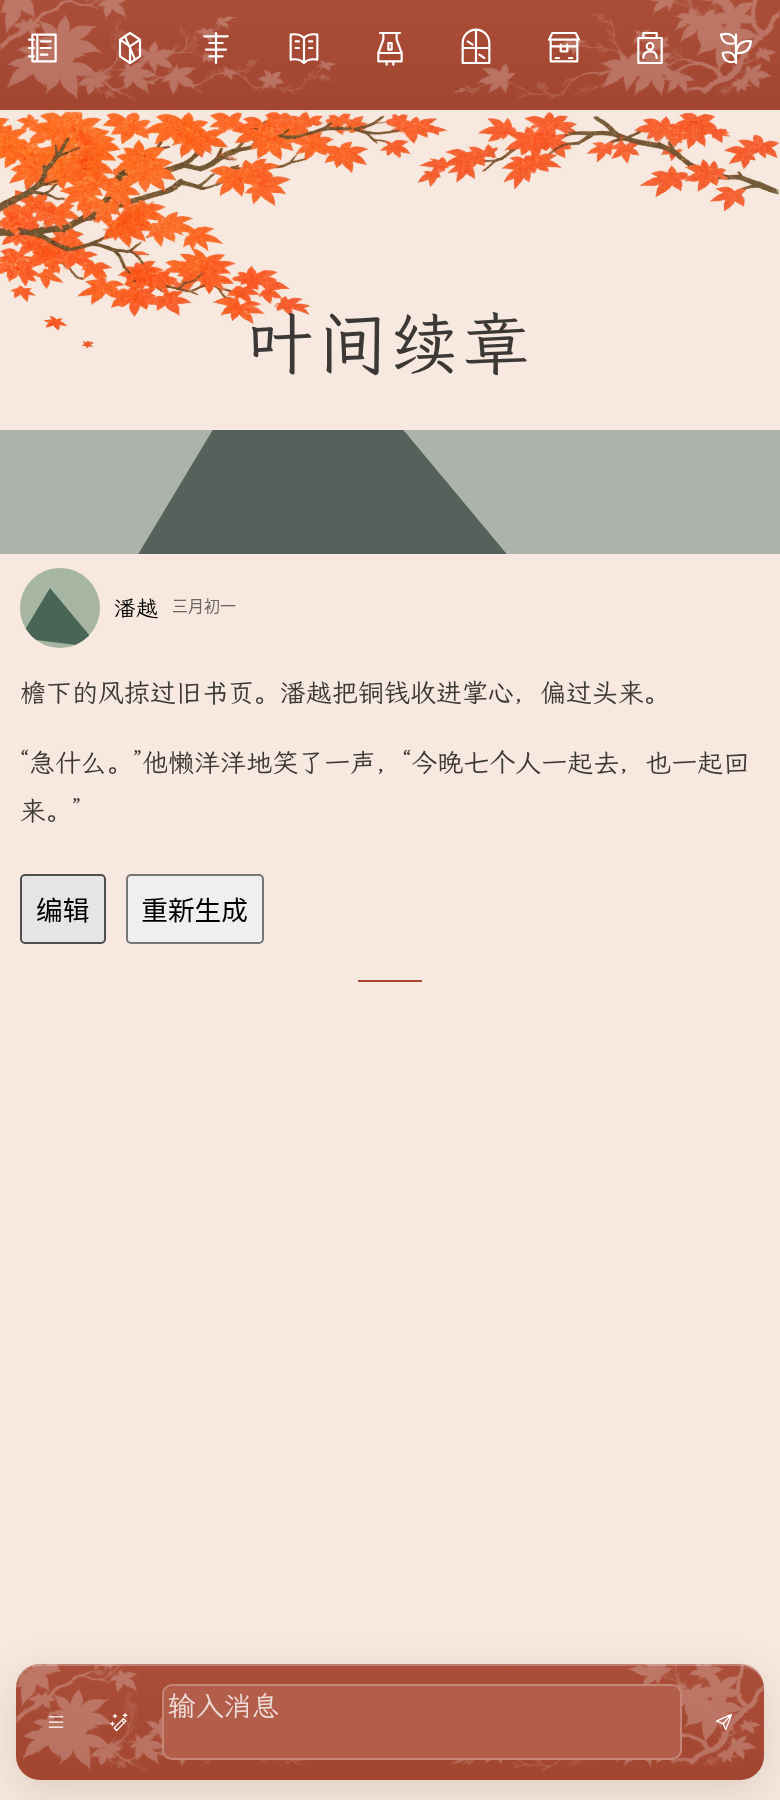
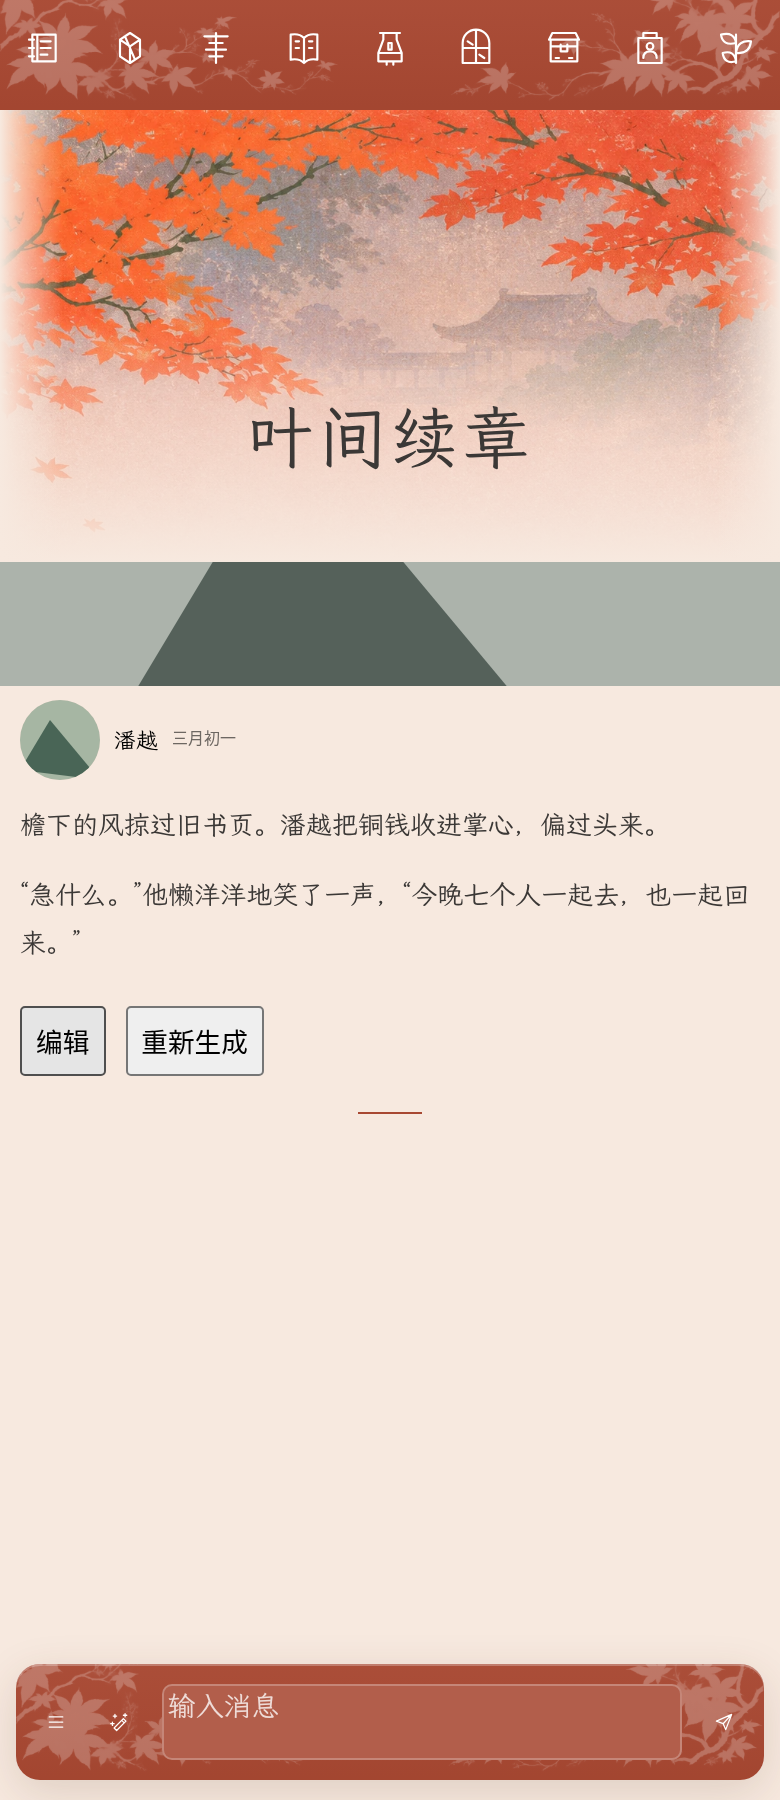
fix: reuse home artwork across pages and scroll foliage with content

diff --git a/docs/maple-theme.md b/docs/maple-theme.md
@@ -4,7 +4,7 @@
 
 底色与辅助色继续在「开场与配色」调整，日夜各一套。上下栏实际底色、按钮和线条跟随辅助色；枝叶月纹是独立遮罩，不把底色锁成红色。图标与输入文字根据辅助色自动选择黑或白。没有自选颜色时，红叶主题使用暖纸朱红／夜林浅铜作为初始配色；已有颜色不会被覆盖。
 
-首页用新绘制的平涂旧印刷红叶背景，落叶向下过渡。九个功能页换用浅页顶红叶、文楷标题和轻磨砂卡面：枝序（预设）、汲泉（API）、文理（格式）、万象志（世界书）、时色（界面）、林间（背景）、随行匣（扩展）、拾叶人（人设）、众生枝（角色）。实际预设、世界书、API、人设绑定等仍使用原生控件与数据，不把设计样稿里的假值写进酒馆。
+首页用新绘制的平涂旧印刷红叶背景，落叶向下过渡。九个功能页与聊天标题统一复用首页同一张红叶画作的上部，接文楷标题和轻磨砂卡面；不再使用另外绘制的页顶叶子。页眉在普通文档流里，向下滚动后随内容离开视野，不悬浮或固定：枝序（预设）、汲泉（API）、文理（格式）、万象志（世界书）、时色（界面）、林间（背景）、随行匣（扩展）、拾叶人（人设）、众生枝（角色）。实际预设、世界书、API、人设绑定等仍使用原生控件与数据，不把设计样稿里的假值写进酒馆。
 
 聊天页只把标题改为「叶间续章」，补同风格页顶装饰；保留现有阅读布局、头像头图来源以及原生正文、编辑、重生成和切换回复功能。主题不改提示词、状态块或聊天记录。卡片内部的状态栏、日记和小手机不在本轮改造范围。
 
@@ -12,7 +12,7 @@
 
 ## 素材和许可
 
-assets/maple/home.webp、leaves.webp、pattern.webp 来自本次设计过程中生成的原创插画，已转换为 WebP，三张合计约 1.1 MB。没有裁取参考图的人物或水印。
+assets/maple/home.webp、pattern.webp 来自本次设计过程中生成的原创插画，已转换为 WebP，两张合计约 0.9 MB。没有裁取参考图的人物或水印。
 
 assets/maple/wenkai.woff 来自 [霞鹜文楷官方仓库](https://github.com/lxgw/LxgwWenKai)，由原始 TTF 转成 WOFF。保留完整 OFL 许可在 assets/maple/OFL.txt。不依赖外部字体 CDN。
 
@@ -20,7 +20,7 @@ assets/maple/wenkai.woff 来自 [霞鹜文楷官方仓库](https://github.com/lx
 
 主题、聊天、颜色、个人资料、音乐等七个测试文件通过。另有 tests/core.test.mjs 的旧解析断言失败，已用修改前 HEAD 的 core.mjs 和测试文件在隔离目录复现；本次没有修改该解析器。
 
-Chromium 通过 tests/fixtures/maple-theme.html 加载真实美化模块，检查了：两套主题相互切换；聊天正文与编辑按钮节点、原始处理函数保持；世界书选择器身份与选值保持；关闭主题后清理主题节点；首页标题；深色和浅色辅助色上下栏同步；手机宽度无横向溢出。页面无 JS 异常或美化模块警告。
+Chromium 通过 tests/fixtures/maple-theme.html 加载真实美化模块，检查了：两套主题相互切换；聊天正文与编辑按钮节点、原始处理函数保持；世界书选择器身份与选值保持；关闭主题后清理主题节点；首页标题；深色和浅色辅助色上下栏同步；手机宽度无横向溢出。页面无 JS 异常或美化模块警告。另验证首页与世界书下滑 500px 后，标题红叶区域离开视野；功能页复用 home.webp，页眉无 fixed/sticky，首页背景为 local 且不重复。
 
 该页面是宿主结构验证夹具，不能替代真实 TauriTavern 安装环境的全部兼容检查。运行截图：
 

diff --git a/README.md b/README.md
@@ -2,7 +2,7 @@
 
 ## 0.9.0 红叶 · 拾叶集
 
-扩展设置里打开「吧台美化」，在「美化风格」选择「红叶 · 拾叶集」。原来的默认风格仍保留。新增红叶落叶首页、功能页顶部红叶、文楷字体和轻磨砂卡面；上下栏的枝叶月纹跟随「开场与配色」中的按钮色，底色也继续可调。聊天页保留现有阅读排版，标题改为「叶间续章」。切回默认或关闭美化会恢复原样。详见 [红叶主题说明](docs/maple-theme.md)。
+扩展设置里打开「吧台美化」，在「美化风格」选择「红叶 · 拾叶集」。原来的默认风格仍保留。新增红叶落叶首页、各页统一复用首页红叶（随页面滚动离开视野）、文楷字体和轻磨砂卡面；上下栏的枝叶月纹跟随「开场与配色」中的按钮色，底色也继续可调。聊天页保留现有阅读排版，标题改为「叶间续章」。切回默认或关闭美化会恢复原样。详见 [红叶主题说明](docs/maple-theme.md)。
 
 ## 0.8.12 群像卡可以关掉自动更新状态
 
